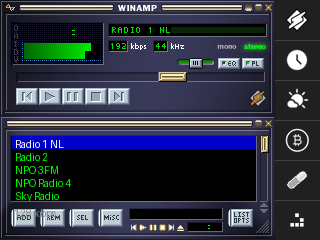
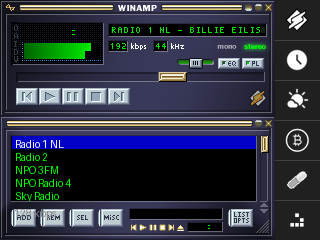
feat(TASK-254): fold ICY into the title as a combined marquee
The separate ICY StreamTitle line at y=36 overdrew the baked kbps/kHz badge (its
black fillRect covered it, and a long title overflowed past WR_ICY_W). Per the
user's call, fold the ICY into the title instead: _drawTitleZone composes
"STATION - SONG   " when an ICY title is set (else station only) and calls
setTitle(); the ICY tick handler recomposes the title rather than drawing a
separate line. Remove _drawIcyLine(), its _drawFull() call, and the now-dead
WR_ICY_X/Y/W/H constants.

One scrolling LED line, max Spotify consistency, and the kbps/kHz badge renders
clean again. Mock mirrors it. 5/5 gates; DUT sign-off batched with 252/253.

Changed region(s): [[0.5312, 0.0875, 0.8125, 0.1458]]

diff --git a/app/src/webRadioApp.h b/app/src/webRadioApp.h
@@ -99,11 +99,8 @@ static Audio& wrAudio() {
 
 // ── Display constants (mirrors preview_webradio.py zone map) ─────────────────
 
-// ICY StreamTitle line (between Winamp title and VU):
-static constexpr int WR_ICY_X = TITLE_X;
-static constexpr int WR_ICY_Y = 36;
-static constexpr int WR_ICY_W = TITLE_W;
-static constexpr int WR_ICY_H = 6;
+// TASK-254: the ICY StreamTitle is now folded into the title marquee (no separate
+// line), so the old WR_ICY_X/Y/W/H zone constants were removed.
 
 // Country badge (top-right, over the bitrate-legend area):
 static constexpr int WR_BADGE_X = 241;
@@ -193,7 +190,7 @@ public:
             char buf[WR_ICY_TITLE_LEN];
             if (s_icyTitleQueue && xQueueReceive(s_icyTitleQueue, buf, 0) == pdTRUE) {
                 strlcpy(_icyTitle, buf, sizeof(_icyTitle));
-                _drawIcyLine();
+                _drawTitleZone();  // TASK-254: ICY now folds into the title marquee
                 LOG_D("webradio", "ICY: %s", _icyTitle);
             }
         }
@@ -684,8 +681,7 @@ private:
     void _drawFull() {
         winampDisplay.repaintChrome();
         _drawPosbar();
-        _drawTitleZone();
-        _drawIcyLine();
+        _drawTitleZone();   // TASK-254: title now carries the ICY StreamTitle inline
         _drawCountryBadge();
         _drawPledit();
     }
@@ -699,8 +695,9 @@ private:
 
     void _drawTitleZone() {
         // TASK-252: reuse the shared Winamp LED-font marquee (consistent with
-        // Spotify's title, scrolls long station names) instead of the plain GFX
-        // font. setTitle() redraws only on change; tick() drives the scroll.
+        // Spotify's title, scrolls long names) instead of the plain GFX font.
+        // setTitle() redraws only on change; tick() drives the scroll.
+        char buf[48 + WR_ICY_TITLE_LEN];
         const char* t;
         if (_pendingStations) {
             t = "Loading...";
@@ -711,20 +708,24 @@ private:
                 case WRPlayState::ERROR_STALL:       t = "Stream stalled"; break;
                 case WRPlayState::ERROR_WIFI:        t = "WiFi lost"; break;
                 case WRPlayState::ERROR_BLOCKED:     t = "Station blocked"; break;
-                default:                             t = _stations[_currentIdx].name; break;
+                default:
+                    // TASK-254: combined Spotify-style marquee — fold the ICY
+                    // StreamTitle into the title ("STATION - SONG   ") so it
+                    // scrolls in the one LED line instead of a separate row that
+                    // collided with the baked kbps/kHz badge.
+                    if (_icyTitle[0]) {
+                        snprintf(buf, sizeof(buf), "%s - %s   ",
+                                 _stations[_currentIdx].name, _icyTitle);
+                        t = buf;
+                    } else {
+                        t = _stations[_currentIdx].name;
+                    }
+                    break;
             }
         } else {
             t = "No stations";
         }
         winampDisplay.setTitle(t);
-    }
-
-    void _drawIcyLine() {
-        tft.fillRect(WR_ICY_X, WR_ICY_Y, WR_ICY_W, WR_ICY_H, TFT_BLACK);
-        if (_icyTitle[0]) {
-            tft.setTextColor(TFT_WHITE, TFT_BLACK);
-            tft.drawString(_icyTitle, WR_ICY_X, WR_ICY_Y, 1);
-        }
     }
 
     void _drawCountryBadge() {

diff --git a/app/tools/preview_webradio.py b/app/tools/preview_webradio.py
@@ -252,10 +252,9 @@ def render(state: str, skin_path: str, frame: int = 0) -> Image.Image:
         t = frame / 30.0
         l_lvl = max(0.0, 0.55 + 0.35 * math.sin(t * 2.7))
         r_lvl = max(0.0, 0.50 + 0.35 * math.sin(t * 1.9 + 1.1))
-        # Firmware (TASK-252): LED-font title = station name (marquee). The ICY
-        # StreamTitle display is unsettled (its y=36 line collides with the baked
-        # kbps/kHz badge) — see TASK-254; omitted here pending that decision.
-        _draw_title(img, STATIONS[0])
+        # Firmware (TASK-254): combined Spotify-style marquee — station name + ICY
+        # StreamTitle in one scrolling LED line ("STATION - SONG"), no separate row.
+        _draw_title(img, f"{STATIONS[0]} - {ICY_TITLE}")
         _draw_buffer_bar(img, 0.65)
         _draw_vu(draw, l_lvl, r_lvl)
         _draw_station_list(img, 0, state)

diff --git a/docs/project/tasks.md b/docs/project/tasks.md
@@ -3184,7 +3184,15 @@ recommendation:** fold the ICY into the title as a combined Spotify-style marque
 no collision, max Spotify consistency; this is what the mock originally assumed). Alternative: clip ICY
 to the ~44px gap before the badge (cramped). User UX call before implementing. The mock omits the ICY
 line pending this decision.
-**Priority:** P3 — visual/layout · **Status:** open · **Opened:** 2026-06-26 · **Owner:** Architect + Developer (user UX call) · **Deps:** TASK-252 (done)
+
+**DONE — combined marquee (user-chosen 2026-06-26); mock-verified.** Folded the ICY into the title:
+`_drawTitleZone` composes `"STATION - SONG   "` when `_icyTitle` is set (else station only) and calls
+`setTitle()`; the ICY tick handler recomposes the title instead of drawing a separate line. Removed
+`_drawIcyLine()`, its `_drawFull()` call, and the now-dead `WR_ICY_X/Y/W/H` constants (`WR_ICY_TITLE_LEN`
+kept). Result: one scrolling LED line, and the **kbps/kHz badge is no longer overdrawn** (the old
+separate line's black fillRect had covered it). Mock mirrors it (`"STATION - ICY"`). Self-verified in
+host; 5/5 gates. DUT sign-off batched with TASK-252/253.
+**Priority:** P3 — visual/layout · **Status:** done — combined marquee, mock-verified 2026-06-26; DUT sign-off batched with 252/253 · **Opened:** 2026-06-26 · **Owner:** Architect + Developer · **Deps:** TASK-252 (done)
 
 ---
 
